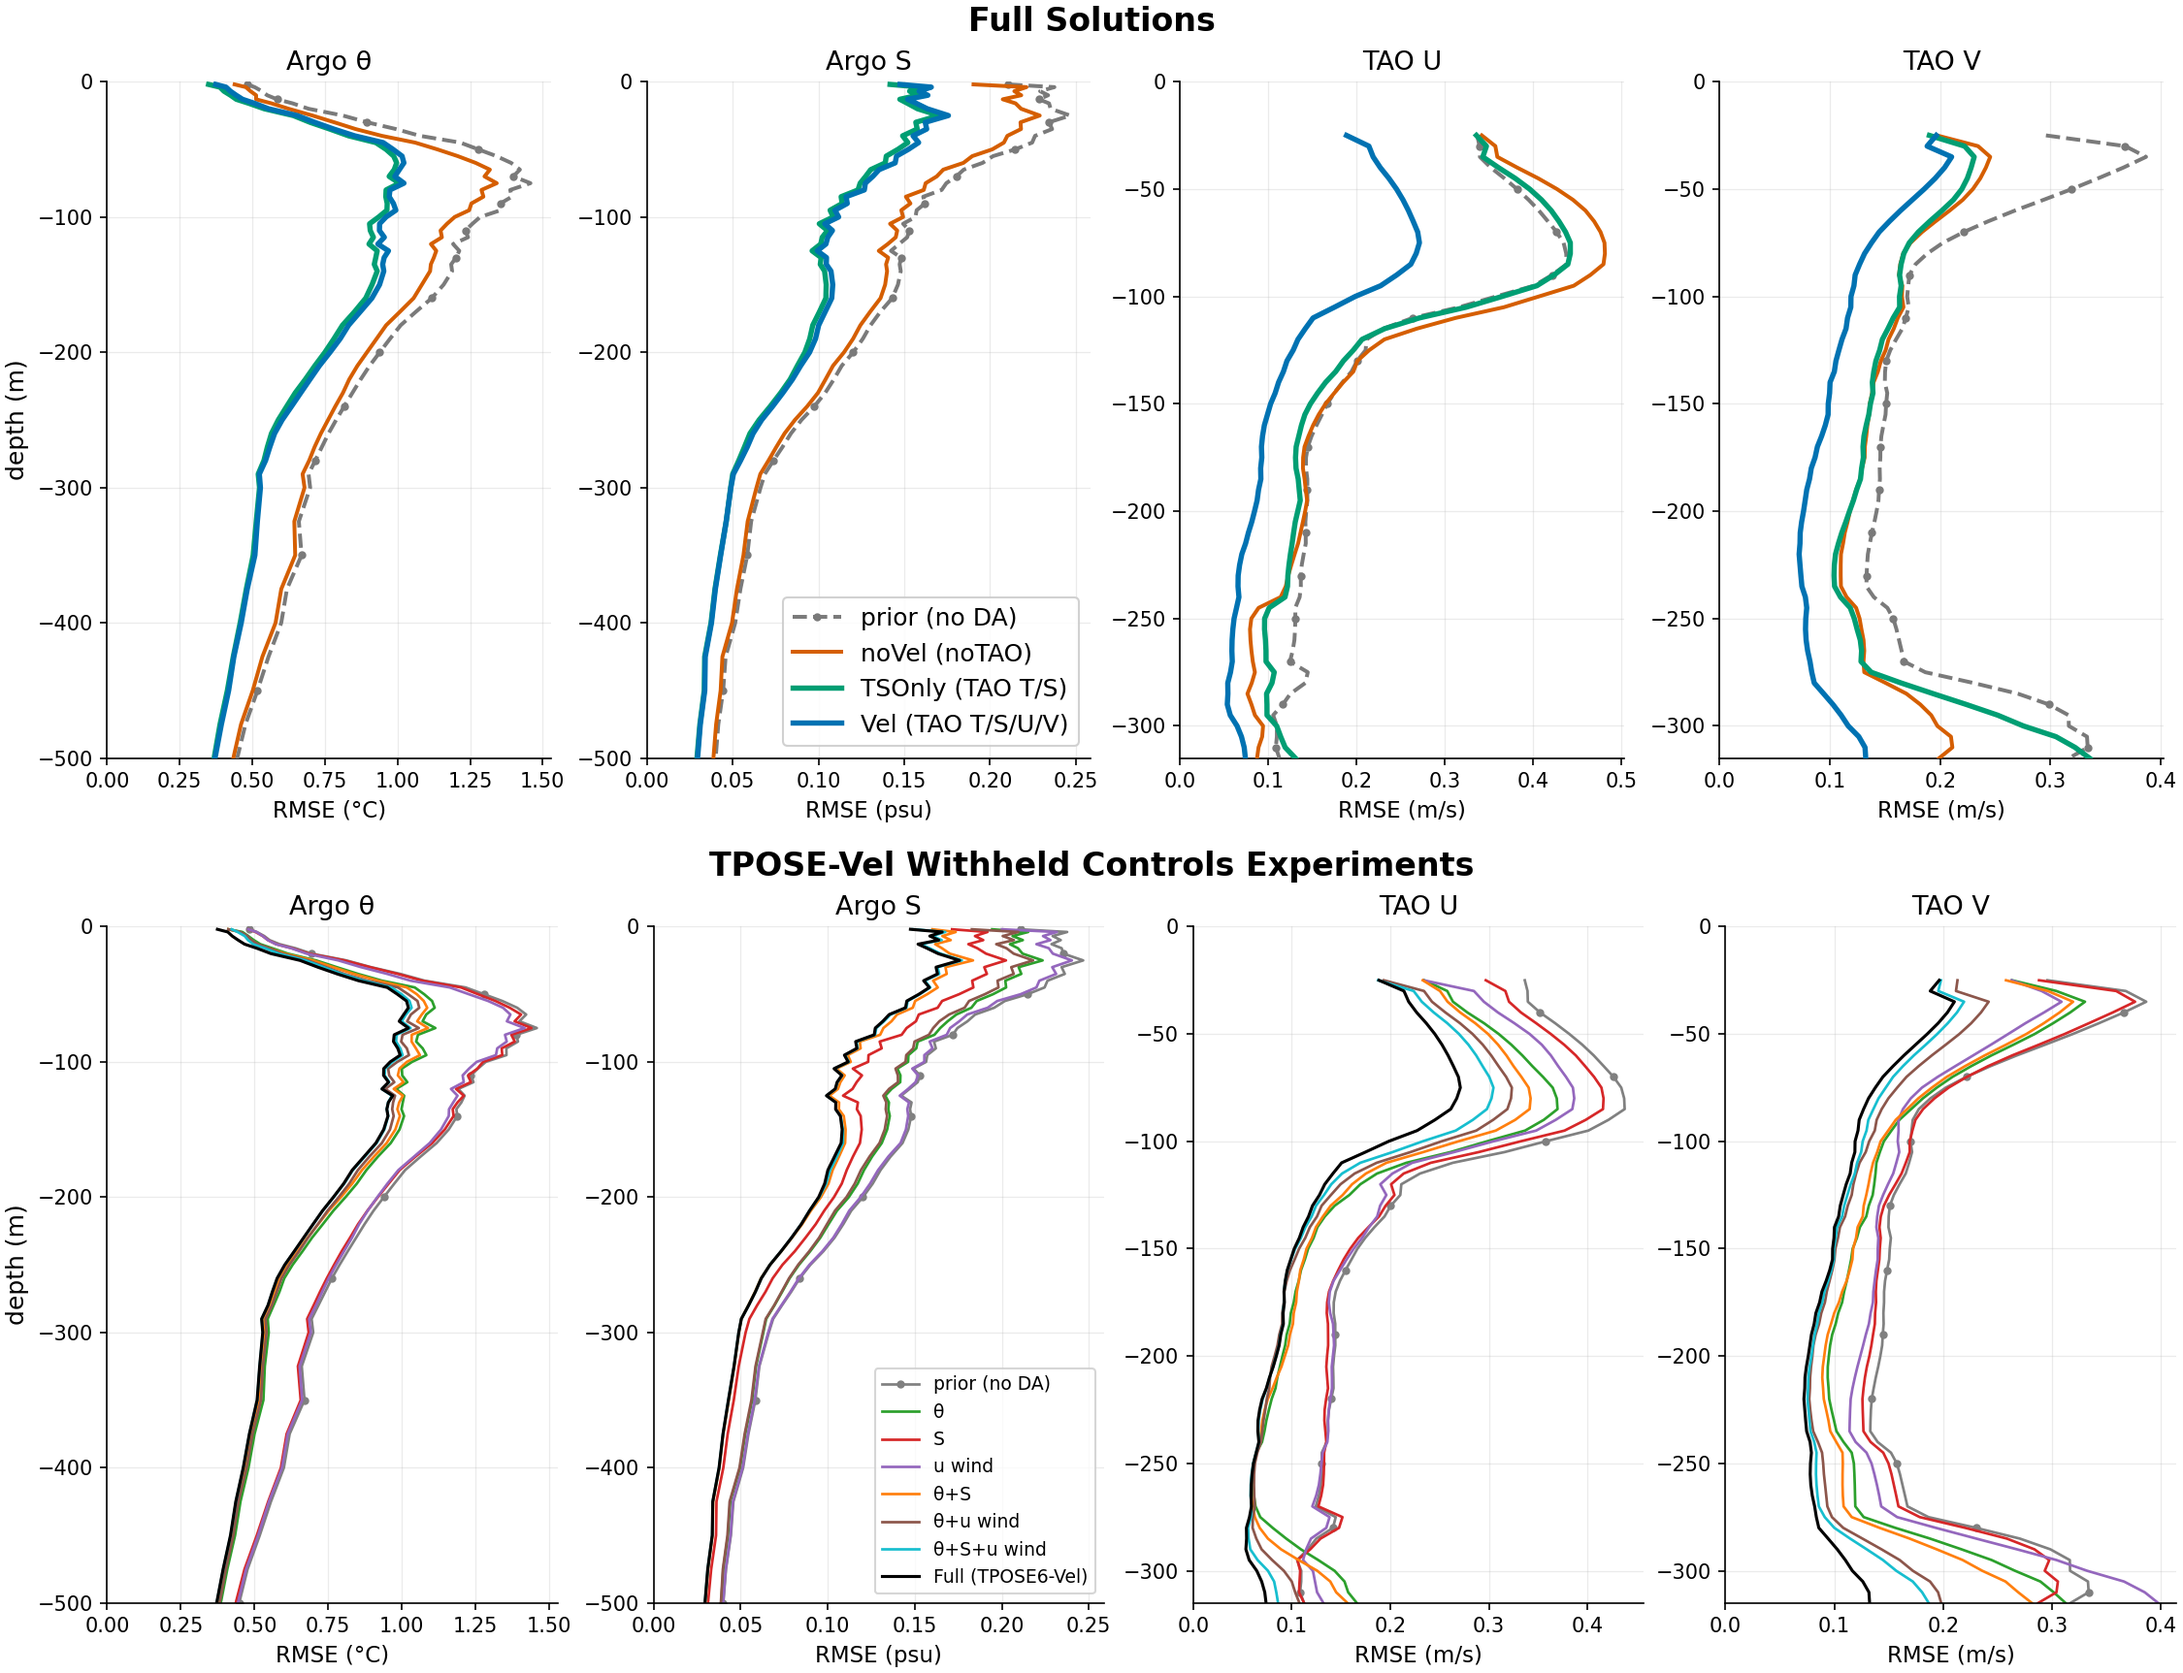
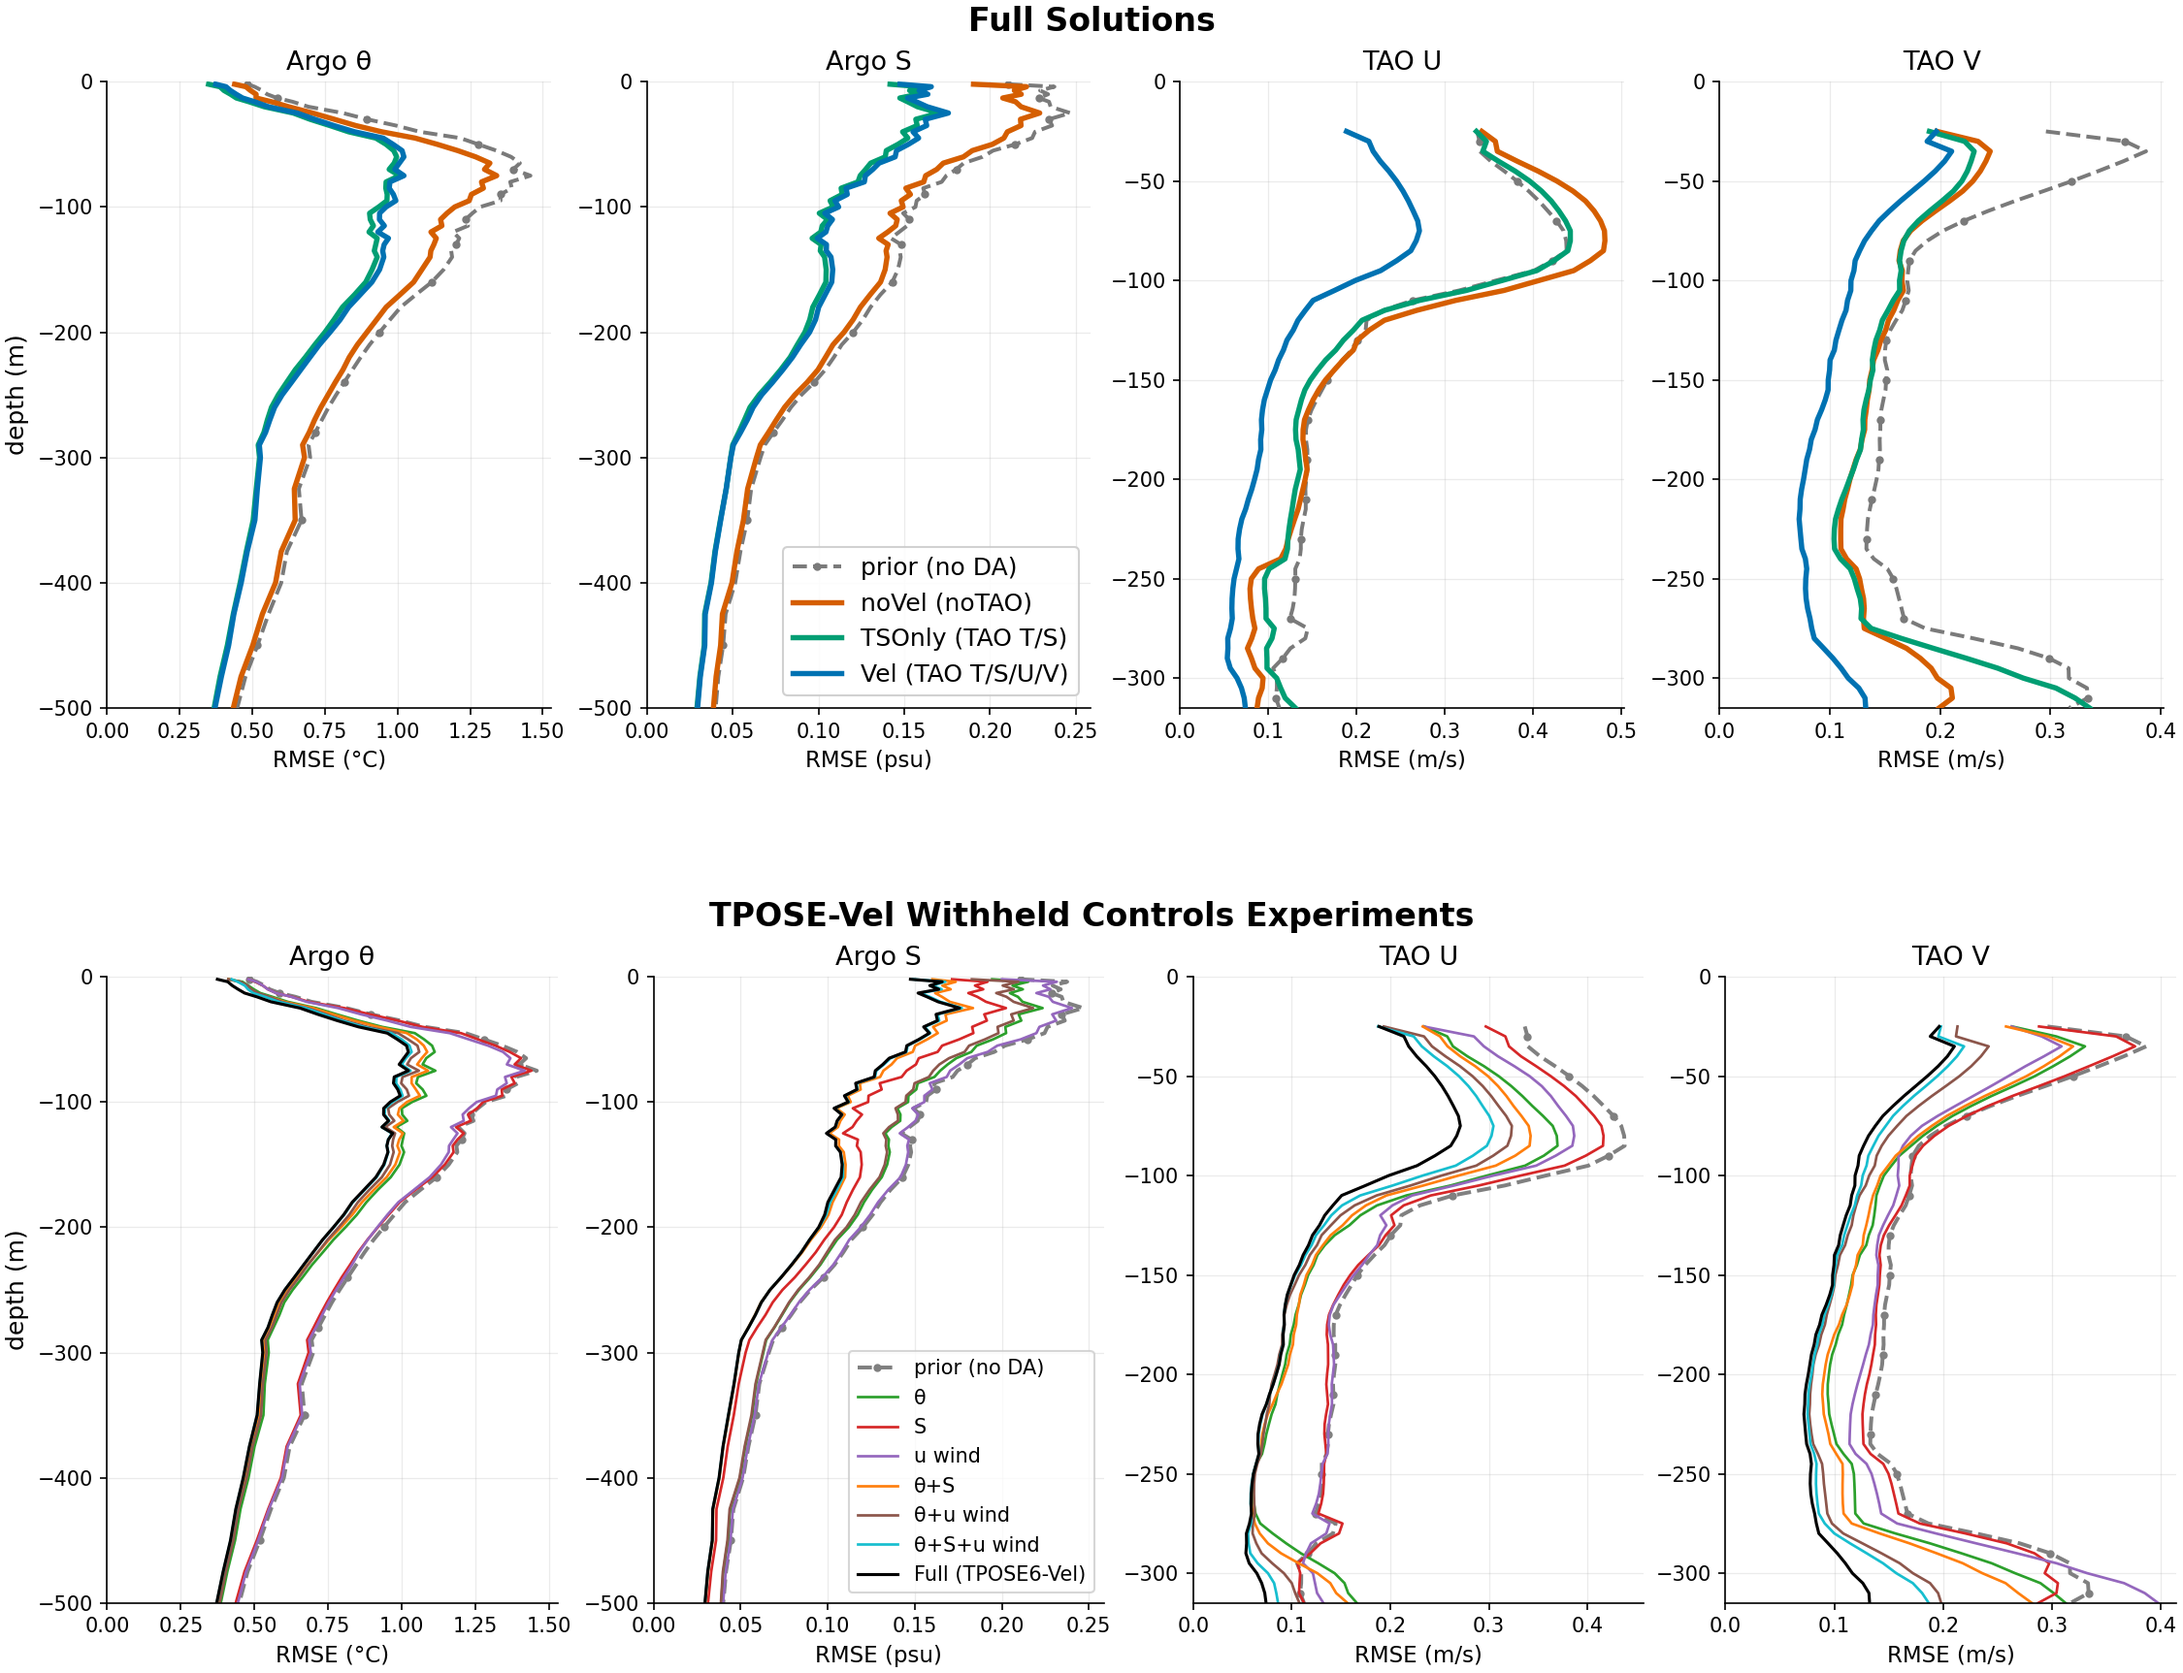
Tweak profile + skill-map figure styling
Flip SST skill-map subtraction (blue = RMSE reduced), drop its super
title. In combined profile fig: more row spacing, uniform solid-line
thickness, dashed prior matched across rows, larger decomp legend.

diff --git a/summary_figs.py b/summary_figs.py
@@ -70,7 +70,7 @@ def fig_error_profiles():
 
 def fig_error_and_decomp_profiles():
     fig = plt.figure(figsize=(15, 11.5), constrained_layout=True)
-    sfigs = fig.subfigures(2, 1)
+    sfigs = fig.subfigures(2, 1, hspace=0.14)
     top, bot = sfigs[0].subplots(1, 4), sfigs[1].subplots(1, 4)
     # top row: prior -> noVel -> TSOnly -> Vel
     for ax, (prod, var, label, unit, zlim) in zip(top, PROF):
@@ -80,7 +80,7 @@ def fig_error_and_decomp_profiles():
             m = np.load(f'{CACHE}/model_{run}_{prod}_{var}.npy')
             dashed = run == 'prior'
             ax.plot(tiw.rmse_profile(obs, m, w), depth, color=color,
-                    lw=2.6 if run in ('Vel', 'TSOnly') else 1.9,
+                    lw=1.9 if dashed else 2.6,
                     ls='--' if dashed else '-', label=rlabel,
                     marker='o' if dashed else None, ms=3, markevery=4, zorder=3)
         ax.set_title(label, fontsize=13)
@@ -98,7 +98,10 @@ def fig_error_and_decomp_profiles():
             fp = f'{CACHE}/model_{run}_{prod}_{var}.npy'
             if not os.path.exists(fp):
                 continue
-            style = dict(lw=1.3); style.update(kw)
+            if run == 'prior':
+                style = dict(lw=1.9, ls='--', marker='o', ms=3, markevery=4)
+            else:
+                style = dict(lw=1.3); style.update(kw)
             ax.plot(tiw.rmse_profile(o, np.load(fp), w), depth,
                     color=color, label=lbl or mf._dlabel(run), **style)
         ax.set_title(label, fontsize=13)
@@ -106,7 +109,7 @@ def fig_error_and_decomp_profiles():
         ax.set_xlim(left=0); ax.grid(alpha=0.25, lw=0.6)
         ax.spines[['top', 'right']].set_visible(False); ax.tick_params(labelsize=10)
     bot[0].set_ylabel('depth (m)', fontsize=12)
-    bot[1].legend(fontsize=9, loc='lower right')
+    bot[1].legend(fontsize=10, loc='lower right')
     sfigs[1].suptitle('TPOSE-Vel Withheld Controls Experiments', fontsize=16, fontweight='bold')
     os.makedirs(OUT, exist_ok=True)
     fig.savefig(f'{OUT}/error_and_decomp_profiles.png', dpi=150); plt.close(fig)
@@ -144,9 +147,9 @@ def fig_skill_maps():
         da = da.sel(YC=slice(*REGION['lat']), XC=slice(*REGION['lon']))
         return da.coarsen(YC=3, XC=3, boundary='trim').mean()
 
-    COLS = [('noVel', 'Vel', 'All TAO obs\nRMSE(noVel) − RMSE(Vel)'),
-            ('noVel', 'TSOnly', 'via TAO T/S\nRMSE(noVel) − RMSE(TSOnly)'),
-            ('TSOnly', 'Vel', 'via velocity obs\nRMSE(TSOnly) − RMSE(Vel)')]
+    COLS = [('Vel', 'noVel', 'All TAO obs\nRMSE(Vel) − RMSE(noVel)'),
+            ('TSOnly', 'noVel', 'via TAO T/S\nRMSE(TSOnly) − RMSE(noVel)'),
+            ('Vel', 'TSOnly', 'via velocity obs\nRMSE(Vel) − RMSE(TSOnly)')]
     fig, axs = plt.subplots(1, 3, figsize=(22, 3.6), sharex=True, sharey=True,
                             constrained_layout=True)
     for ax, (a, b, title) in zip(axs, COLS):
@@ -158,8 +161,6 @@ def fig_skill_maps():
         ax.set_title(title, fontsize=12); ax.set_xlabel('lon (°E)')
     axs[0].set_ylabel('lat (°N)')
     fig.colorbar(pc, ax=axs, shrink=0.85, label='SST RMSE difference (°C)')
-    fig.suptitle('Where TAO reduces SST error, split by obs type   '
-                 '(red = positive difference = RMSE reduced; ▼ = equatorial TAO moorings)', fontsize=13)
     fig.savefig(f'{OUT}/skill_maps_sst_by_obs.png', dpi=150); plt.close(fig)
     print('wrote skill_maps_sst_by_obs.png')
 
